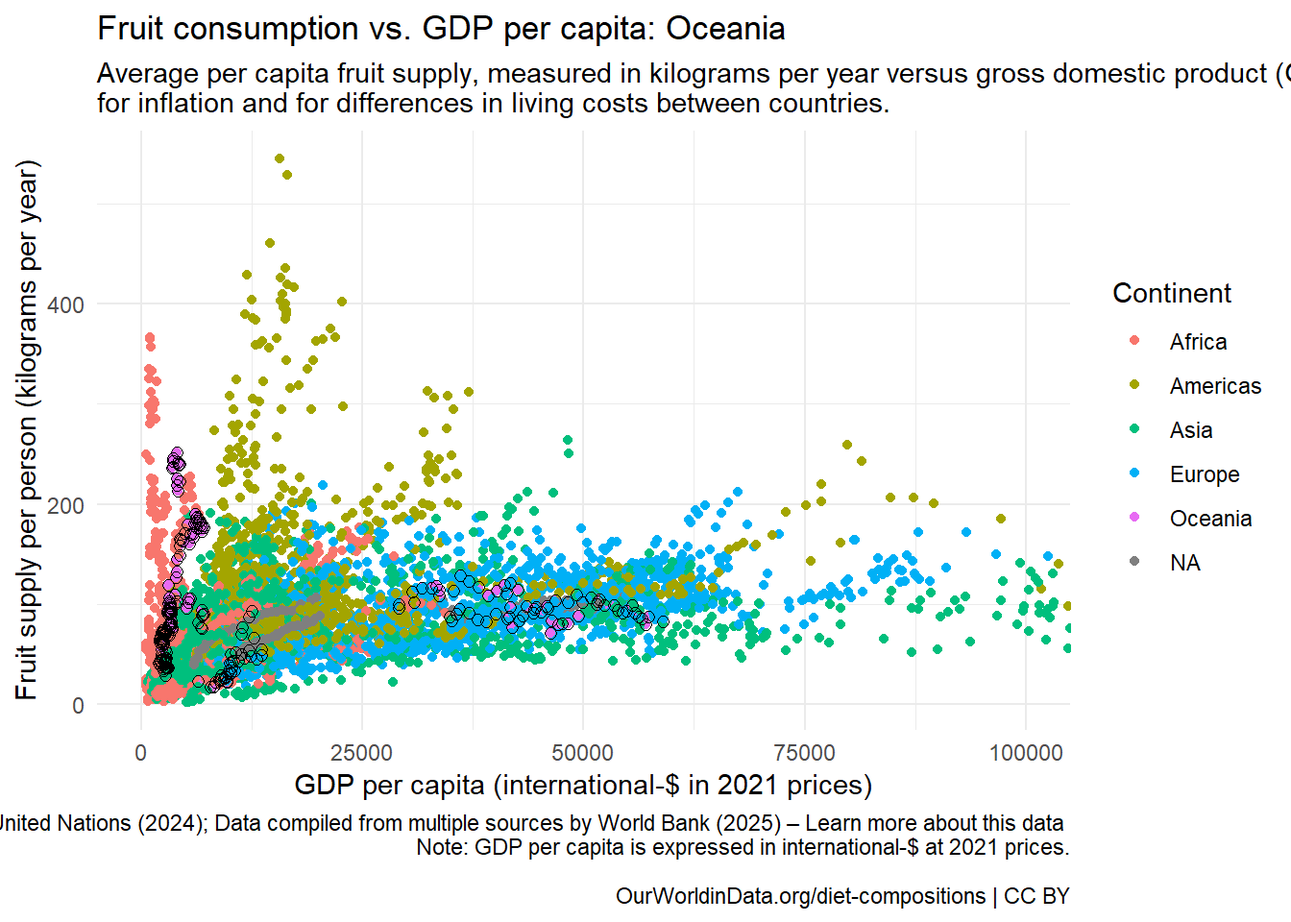
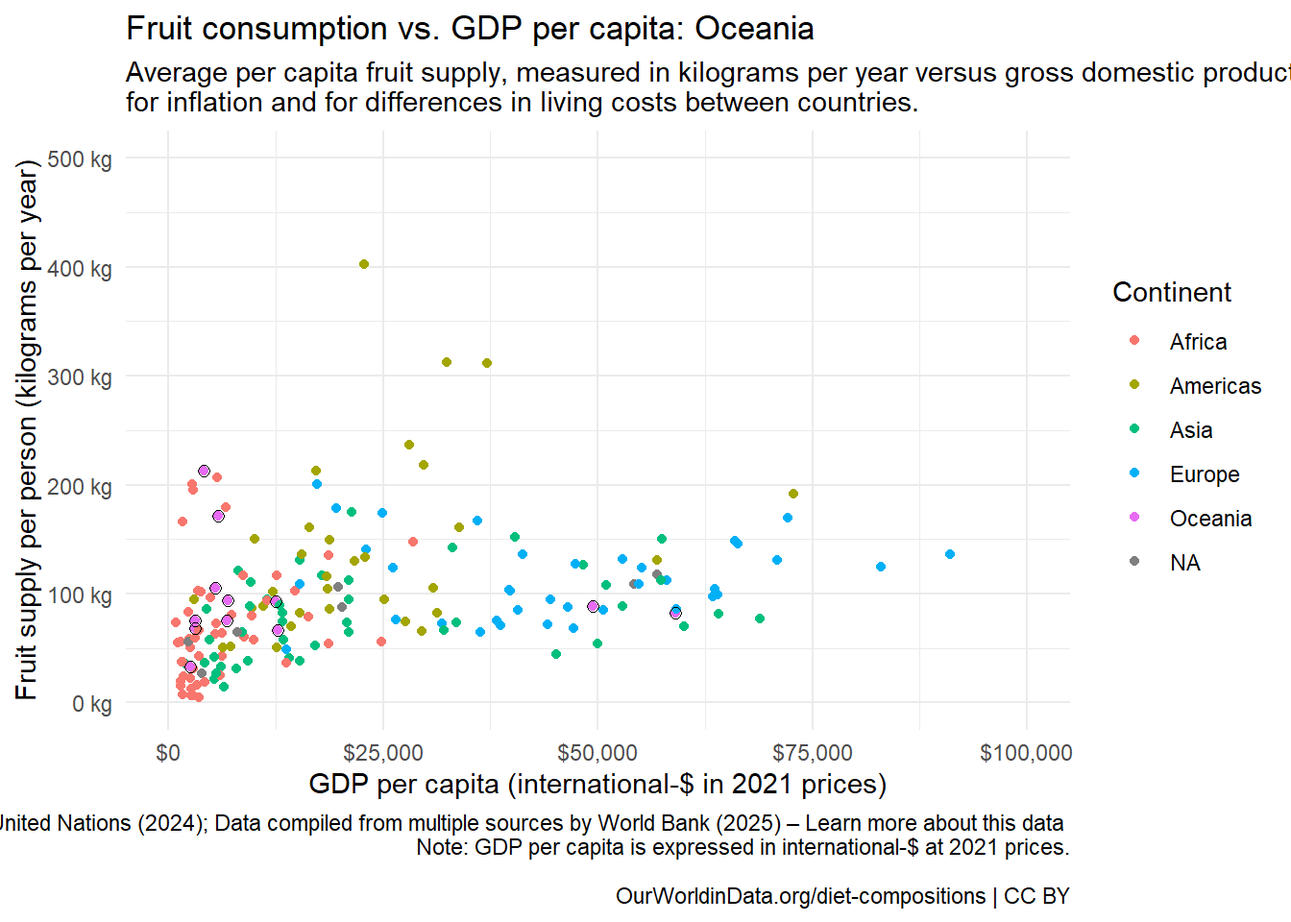
Fixed x and y axis

diff --git a/week_05/Recreate Fruit Visualization.html b/week_05/Recreate Fruit Visualization.html
@@ -137,23 +137,25 @@ pre > code.sourceCode > span > a:first-child::before { text-decoration: underlin
 </div>
 <details class="code-fold">
 <summary>Code</summary>
-<div class="sourceCode cell-code" id="cb9"><pre class="sourceCode numberSource r number-lines code-with-copy"><code class="sourceCode r"><span id="cb9-1"><a href="#cb9-1"></a><span class="fu">library</span>(av)</span></code><button title="Copy to Clipboard" class="code-copy-button"><i class="bi"></i></button></pre></div>
+<div class="sourceCode cell-code" id="cb9"><pre class="sourceCode numberSource r number-lines code-with-copy"><code class="sourceCode r"><span id="cb9-1"><a href="#cb9-1"></a><span class="fu">library</span>(scales)</span></code><button title="Copy to Clipboard" class="code-copy-button"><i class="bi"></i></button></pre></div>
 </details>
 <div class="cell-output cell-output-stderr">
-<pre><code>Warning: package 'av' was built under R version 4.4.3</code></pre>
-</div>
-<details class="code-fold">
-<summary>Code</summary>
-<div class="sourceCode cell-code" id="cb11"><pre class="sourceCode numberSource r number-lines code-with-copy"><code class="sourceCode r"><span id="cb11-1"><a href="#cb11-1"></a><span class="fu">library</span>(gifski)</span></code><button title="Copy to Clipboard" class="code-copy-button"><i class="bi"></i></button></pre></div>
-</details>
-<div class="cell-output cell-output-stderr">
-<pre><code>Warning: package 'gifski' was built under R version 4.4.3</code></pre>
+<pre><code>
+Attaching package: 'scales'
+
+The following object is masked from 'package:purrr':
+
+    discard
+
+The following object is masked from 'package:readr':
+
+    col_factor</code></pre>
 </div>
 </div>
 <div class="cell">
 <details class="code-fold">
 <summary>Code</summary>
-<div class="sourceCode cell-code" id="cb13"><pre class="sourceCode numberSource r number-lines code-with-copy"><code class="sourceCode r"><span id="cb13-1"><a href="#cb13-1"></a>df_fruit <span class="ot">&lt;-</span> <span class="fu">read_csv</span>(<span class="st">"https://ourworldindata.org/grapher/fruit-consumption-vs-gdp-per-capita.csv?v=1&amp;csvType=full&amp;useColumnShortNames=true"</span>)</span></code><button title="Copy to Clipboard" class="code-copy-button"><i class="bi"></i></button></pre></div>
+<div class="sourceCode cell-code" id="cb11"><pre class="sourceCode numberSource r number-lines code-with-copy"><code class="sourceCode r"><span id="cb11-1"><a href="#cb11-1"></a>df_fruit <span class="ot">&lt;-</span> <span class="fu">read_csv</span>(<span class="st">"https://ourworldindata.org/grapher/fruit-consumption-vs-gdp-per-capita.csv?v=1&amp;csvType=full&amp;useColumnShortNames=true"</span>)</span></code><button title="Copy to Clipboard" class="code-copy-button"><i class="bi"></i></button></pre></div>
 </details>
 <div class="cell-output cell-output-stderr">
 <pre><code>Rows: 14355 Columns: 6
@@ -169,11 +171,12 @@ dbl (3): Year, fruit__00002919__food_available_for_consumption__0645pc__kilo...
 <div class="cell">
 <details class="code-fold">
 <summary>Code</summary>
-<div class="sourceCode cell-code" id="cb15"><pre class="sourceCode numberSource r number-lines code-with-copy"><code class="sourceCode r"><span id="cb15-1"><a href="#cb15-1"></a>fruit <span class="ot">&lt;-</span> df_fruit <span class="sc">%&gt;%</span></span>
-<span id="cb15-2"><a href="#cb15-2"></a>  <span class="fu">mutate</span>(<span class="at">Continent =</span> <span class="fu">countrycode</span>(Entity, <span class="at">origin =</span> <span class="st">"country.name"</span>, <span class="at">destination =</span> <span class="st">"continent"</span>)) <span class="sc">%&gt;%</span> </span>
-<span id="cb15-3"><a href="#cb15-3"></a>  <span class="fu">filter</span>(<span class="sc">!</span><span class="fu">is.na</span>(ny_gdp_pcap_pp_kd)) <span class="sc">%&gt;%</span></span>
-<span id="cb15-4"><a href="#cb15-4"></a>  <span class="fu">rename</span>(<span class="st">"fruit_supply"</span> <span class="ot">=</span> fruit__00002919__food_available_for_consumption__0645pc__kilograms_per_year_per_capita) <span class="sc">%&gt;%</span></span>
-<span id="cb15-5"><a href="#cb15-5"></a>  <span class="fu">filter</span>(<span class="sc">!</span><span class="fu">is.na</span>(fruit_supply))</span></code><button title="Copy to Clipboard" class="code-copy-button"><i class="bi"></i></button></pre></div>
+<div class="sourceCode cell-code" id="cb13"><pre class="sourceCode numberSource r number-lines code-with-copy"><code class="sourceCode r"><span id="cb13-1"><a href="#cb13-1"></a>fruit <span class="ot">&lt;-</span> df_fruit <span class="sc">%&gt;%</span></span>
+<span id="cb13-2"><a href="#cb13-2"></a>  <span class="fu">mutate</span>(<span class="at">Continent =</span> <span class="fu">countrycode</span>(Entity, <span class="at">origin =</span> <span class="st">"country.name"</span>, <span class="at">destination =</span> <span class="st">"continent"</span>)) <span class="sc">%&gt;%</span> </span>
+<span id="cb13-3"><a href="#cb13-3"></a>  <span class="fu">filter</span>(<span class="sc">!</span><span class="fu">is.na</span>(ny_gdp_pcap_pp_kd)) <span class="sc">%&gt;%</span></span>
+<span id="cb13-4"><a href="#cb13-4"></a>  <span class="fu">rename</span>(<span class="at">fruit_supply =</span> <span class="st">`</span><span class="at">fruit__00002919__food_available_for_consumption__0645pc__kilograms_per_year_per_capita</span><span class="st">`</span>) <span class="sc">%&gt;%</span></span>
+<span id="cb13-5"><a href="#cb13-5"></a>  <span class="fu">filter</span>(<span class="sc">!</span><span class="fu">is.na</span>(fruit_supply)) <span class="sc">%&gt;%</span> </span>
+<span id="cb13-6"><a href="#cb13-6"></a>  <span class="fu">filter</span>(Year <span class="sc">==</span> <span class="dv">2022</span>)</span></code><button title="Copy to Clipboard" class="code-copy-button"><i class="bi"></i></button></pre></div>
 </details>
 <div class="cell-output cell-output-stderr">
 <pre><code>Warning: There was 1 warning in `mutate()`.
@@ -188,47 +191,59 @@ Caused by warning:
 <div class="cell">
 <details class="code-fold">
 <summary>Code</summary>
-<div class="sourceCode cell-code" id="cb17"><pre class="sourceCode numberSource r number-lines code-with-copy"><code class="sourceCode r"><span id="cb17-1"><a href="#cb17-1"></a><span class="fu">ggplot</span>(fruit, <span class="fu">aes</span>(<span class="at">x =</span> ny_gdp_pcap_pp_kd, <span class="at">y =</span> fruit_supply, <span class="at">color =</span> Continent)) <span class="sc">+</span></span>
-<span id="cb17-2"><a href="#cb17-2"></a>  <span class="fu">geom_point</span>(<span class="at">pch =</span> <span class="dv">20</span>) <span class="sc">+</span></span>
-<span id="cb17-3"><a href="#cb17-3"></a>  <span class="fu">transition_states</span>(Year) <span class="sc">+</span></span>
-<span id="cb17-4"><a href="#cb17-4"></a>  <span class="fu">labs</span>(<span class="at">title =</span> <span class="st">"Fruit consumption vs. GDP per capita"</span>,</span>
-<span id="cb17-5"><a href="#cb17-5"></a>       <span class="at">subtitle =</span> <span class="st">"Average per capita fruit supply, measured in kilograms per year versus gross domestic product (GDP) per capita, adjusted </span><span class="sc">\n</span><span class="st">for inflation and for differences in living costs between countries."</span>,</span>
-<span id="cb17-6"><a href="#cb17-6"></a>       <span class="at">x =</span> <span class="st">"GDP per capita (international-$ in 2021 prices)"</span>, </span>
-<span id="cb17-7"><a href="#cb17-7"></a>       <span class="at">y =</span> <span class="st">"Fruit supply per person (kilograms per year)"</span>,</span>
-<span id="cb17-8"><a href="#cb17-8"></a>       <span class="at">caption =</span> <span class="st">"Data source: Food and Agriculture Organization of the United Nations (2024); Data compiled from multiple sources by World Bank (2025) – Learn more about this data </span><span class="sc">\n</span><span class="st">Note: GDP per capita is expressed in international-$ at 2021 prices.</span></span>
-<span id="cb17-9"><a href="#cb17-9"></a><span class="sc">\n</span><span class="st">OurWorldinData.org/diet-compositions | CC BY"</span>) <span class="sc">+</span></span>
-<span id="cb17-10"><a href="#cb17-10"></a>  <span class="fu">coord_cartesian</span>(<span class="at">xlim =</span> <span class="fu">c</span>(<span class="dv">0</span>, <span class="dv">100000</span>)) <span class="sc">+</span></span>
-<span id="cb17-11"><a href="#cb17-11"></a>  <span class="fu">theme_minimal</span>()</span></code><button title="Copy to Clipboard" class="code-copy-button"><i class="bi"></i></button></pre></div>
+<div class="sourceCode cell-code" id="cb15"><pre class="sourceCode numberSource r number-lines code-with-copy"><code class="sourceCode r"><span id="cb15-1"><a href="#cb15-1"></a><span class="fu">ggplot</span>(fruit, <span class="fu">aes</span>(<span class="at">x =</span> ny_gdp_pcap_pp_kd, <span class="at">y =</span> fruit_supply, <span class="at">color =</span> Continent)) <span class="sc">+</span></span>
+<span id="cb15-2"><a href="#cb15-2"></a>  <span class="fu">geom_point</span>(<span class="at">pch =</span> <span class="dv">20</span>) <span class="sc">+</span></span>
+<span id="cb15-3"><a href="#cb15-3"></a>  <span class="fu">scale_y_continuous</span>(<span class="at">breaks =</span> <span class="fu">seq</span>(<span class="dv">0</span>, <span class="dv">500</span>, <span class="dv">100</span>),</span>
+<span id="cb15-4"><a href="#cb15-4"></a>                     <span class="at">limits =</span> <span class="fu">c</span>(<span class="dv">0</span>, <span class="dv">500</span>),</span>
+<span id="cb15-5"><a href="#cb15-5"></a>                     <span class="at">labels =</span> <span class="fu">label_number</span>(<span class="at">suffix =</span> <span class="st">" kg"</span>)) <span class="sc">+</span></span>
+<span id="cb15-6"><a href="#cb15-6"></a>  <span class="fu">scale_x_continuous</span>(<span class="at">labels =</span> <span class="fu">dollar_format</span>(<span class="at">prefix =</span> <span class="st">"$"</span>, <span class="at">big.mark =</span> <span class="st">","</span>)) <span class="sc">+</span></span>
+<span id="cb15-7"><a href="#cb15-7"></a>  <span class="fu">labs</span>(<span class="at">title =</span> <span class="st">"Fruit consumption vs. GDP per capita"</span>,</span>
+<span id="cb15-8"><a href="#cb15-8"></a>       <span class="at">subtitle =</span> <span class="st">"Average per capita fruit supply, measured in kilograms per year versus gross domestic product (GDP) per capita, adjusted </span><span class="sc">\n</span><span class="st">for inflation and for differences in living costs between countries."</span>,</span>
+<span id="cb15-9"><a href="#cb15-9"></a>       <span class="at">x =</span> <span class="st">"GDP per capita (international-$ in 2021 prices)"</span>, </span>
+<span id="cb15-10"><a href="#cb15-10"></a>       <span class="at">y =</span> <span class="st">"Fruit supply per person (kilograms per year)"</span>,</span>
+<span id="cb15-11"><a href="#cb15-11"></a>       <span class="at">caption =</span> <span class="st">"Data source: Food and Agriculture Organization of the United Nations (2024); Data compiled from multiple sources by World Bank (2025) – Learn more about this data </span><span class="sc">\n</span><span class="st">Note: GDP per capita is expressed in international-$ at 2021 prices.</span></span>
+<span id="cb15-12"><a href="#cb15-12"></a><span class="sc">\n</span><span class="st">OurWorldinData.org/diet-compositions | CC BY"</span>) <span class="sc">+</span></span>
+<span id="cb15-13"><a href="#cb15-13"></a>  <span class="fu">coord_cartesian</span>(<span class="at">xlim =</span> <span class="fu">c</span>(<span class="dv">0</span>, <span class="dv">100000</span>)) <span class="sc">+</span></span>
+<span id="cb15-14"><a href="#cb15-14"></a>  <span class="fu">theme_minimal</span>()</span></code><button title="Copy to Clipboard" class="code-copy-button"><i class="bi"></i></button></pre></div>
 </details>
+<div class="cell-output cell-output-stderr">
+<pre><code>Warning: Removed 1 row containing missing values or values outside the scale range
+(`geom_point()`).</code></pre>
+</div>
 <div class="cell-output-display">
 <div>
 <figure class="figure">
-<p><img src="Recreate-Fruit-Visualization_files/figure-html/unnamed-chunk-4-1.gif" class="img-fluid figure-img"></p>
+<p><img src="Recreate-Fruit-Visualization_files/figure-html/unnamed-chunk-4-1.png" class="img-fluid figure-img" width="672"></p>
 </figure>
 </div>
 </div>
 </div>
-</section>
-<section id="kenya-ghana-and-the-united-states" class="level2">
-<h2 class="anchored" data-anchor-id="kenya-ghana-and-the-united-states">Kenya, Ghana, and the United States</h2>
 <div class="cell">
 <details class="code-fold">
 <summary>Code</summary>
-<div class="sourceCode cell-code" id="cb18"><pre class="sourceCode numberSource r number-lines code-with-copy"><code class="sourceCode r"><span id="cb18-1"><a href="#cb18-1"></a>specific <span class="ot">&lt;-</span> fruit <span class="sc">%&gt;%</span> </span>
-<span id="cb18-2"><a href="#cb18-2"></a>  <span class="fu">filter</span>(Entity <span class="sc">%in%</span> <span class="fu">c</span>(<span class="st">"Kenya"</span>, <span class="st">"Ghana"</span>, <span class="st">"United States"</span>))</span>
-<span id="cb18-3"><a href="#cb18-3"></a></span>
-<span id="cb18-4"><a href="#cb18-4"></a><span class="fu">ggplot</span>(fruit, <span class="fu">aes</span>(<span class="at">x =</span> ny_gdp_pcap_pp_kd, <span class="at">y =</span> fruit_supply, <span class="at">color =</span> Continent)) <span class="sc">+</span></span>
-<span id="cb18-5"><a href="#cb18-5"></a>  <span class="fu">geom_point</span>() <span class="sc">+</span></span>
-<span id="cb18-6"><a href="#cb18-6"></a>  <span class="fu">geom_point</span>(<span class="at">data =</span> specific, <span class="fu">aes</span>(<span class="at">x =</span> ny_gdp_pcap_pp_kd, <span class="at">y =</span> fruit_supply), <span class="at">pch =</span> <span class="dv">21</span>, <span class="at">size =</span> <span class="dv">2</span>, <span class="at">color =</span> <span class="st">"black"</span>) <span class="sc">+</span></span>
-<span id="cb18-7"><a href="#cb18-7"></a>  <span class="fu">labs</span>(<span class="at">title =</span> <span class="st">"Fruit consumption vs. GDP per capita: Kenya, Ghana, United States"</span>,</span>
-<span id="cb18-8"><a href="#cb18-8"></a>       <span class="at">subtitle =</span> <span class="st">"Average per capita fruit supply, measured in kilograms per year versus gross domestic product (GDP) per capita, adjusted </span><span class="sc">\n</span><span class="st">for inflation and for differences in living costs between countries."</span>,</span>
-<span id="cb18-9"><a href="#cb18-9"></a>       <span class="at">x =</span> <span class="st">"GDP per capita (international-$ in 2021 prices)"</span>, </span>
-<span id="cb18-10"><a href="#cb18-10"></a>       <span class="at">y =</span> <span class="st">"Fruit supply per person (kilograms per year)"</span>,</span>
-<span id="cb18-11"><a href="#cb18-11"></a>       <span class="at">caption =</span> <span class="st">"Data source: Food and Agriculture Organization of the United Nations (2024); Data compiled from multiple sources by World Bank (2025) – Learn more about this data </span><span class="sc">\n</span><span class="st">Note: GDP per capita is expressed in international-$ at 2021 prices.</span></span>
-<span id="cb18-12"><a href="#cb18-12"></a><span class="sc">\n</span><span class="st">OurWorldinData.org/diet-compositions | CC BY"</span>) <span class="sc">+</span></span>
-<span id="cb18-13"><a href="#cb18-13"></a>  <span class="fu">coord_cartesian</span>(<span class="at">xlim =</span> <span class="fu">c</span>(<span class="dv">0</span>, <span class="dv">100000</span>)) <span class="sc">+</span></span>
-<span id="cb18-14"><a href="#cb18-14"></a>  <span class="fu">theme_minimal</span>()</span></code><button title="Copy to Clipboard" class="code-copy-button"><i class="bi"></i></button></pre></div>
+<div class="sourceCode cell-code" id="cb17"><pre class="sourceCode numberSource r number-lines code-with-copy"><code class="sourceCode r"><span id="cb17-1"><a href="#cb17-1"></a>specific <span class="ot">&lt;-</span> fruit <span class="sc">%&gt;%</span> </span>
+<span id="cb17-2"><a href="#cb17-2"></a>  <span class="fu">filter</span>(Entity <span class="sc">%in%</span> <span class="fu">c</span>(<span class="st">"Kenya"</span>, <span class="st">"Ghana"</span>, <span class="st">"United States"</span>))</span>
+<span id="cb17-3"><a href="#cb17-3"></a></span>
+<span id="cb17-4"><a href="#cb17-4"></a><span class="fu">ggplot</span>(fruit, <span class="fu">aes</span>(<span class="at">x =</span> ny_gdp_pcap_pp_kd, <span class="at">y =</span> fruit_supply, <span class="at">color =</span> Continent)) <span class="sc">+</span></span>
+<span id="cb17-5"><a href="#cb17-5"></a>  <span class="fu">geom_point</span>() <span class="sc">+</span></span>
+<span id="cb17-6"><a href="#cb17-6"></a>  <span class="fu">geom_point</span>(<span class="at">data =</span> specific, <span class="fu">aes</span>(<span class="at">x =</span> ny_gdp_pcap_pp_kd, <span class="at">y =</span> fruit_supply), <span class="at">pch =</span> <span class="dv">21</span>, <span class="at">size =</span> <span class="dv">2</span>, <span class="at">color =</span> <span class="st">"black"</span>) <span class="sc">+</span></span>
+<span id="cb17-7"><a href="#cb17-7"></a>  <span class="fu">scale_y_continuous</span>(<span class="at">breaks =</span> <span class="fu">seq</span>(<span class="dv">0</span>, <span class="dv">500</span>, <span class="dv">100</span>),</span>
+<span id="cb17-8"><a href="#cb17-8"></a>                     <span class="at">limits =</span> <span class="fu">c</span>(<span class="dv">0</span>, <span class="dv">500</span>),</span>
+<span id="cb17-9"><a href="#cb17-9"></a>                     <span class="at">labels =</span> <span class="fu">label_number</span>(<span class="at">suffix =</span> <span class="st">" kg"</span>)) <span class="sc">+</span></span>
+<span id="cb17-10"><a href="#cb17-10"></a>  <span class="fu">scale_x_continuous</span>(<span class="at">labels =</span> <span class="fu">dollar_format</span>(<span class="at">prefix =</span> <span class="st">"$"</span>, <span class="at">big.mark =</span> <span class="st">","</span>)) <span class="sc">+</span></span>
+<span id="cb17-11"><a href="#cb17-11"></a>  <span class="fu">labs</span>(<span class="at">title =</span> <span class="st">"Fruit consumption vs. GDP per capita: Kenya, Ghana, United States"</span>,</span>
+<span id="cb17-12"><a href="#cb17-12"></a>       <span class="at">subtitle =</span> <span class="st">"Average per capita fruit supply, measured in kilograms per year versus gross domestic product (GDP) per capita, adjusted </span><span class="sc">\n</span><span class="st">for inflation and for differences in living costs between countries."</span>,</span>
+<span id="cb17-13"><a href="#cb17-13"></a>       <span class="at">x =</span> <span class="st">"GDP per capita (international-$ in 2021 prices)"</span>, </span>
+<span id="cb17-14"><a href="#cb17-14"></a>       <span class="at">y =</span> <span class="st">"Fruit supply per person (kilograms per year)"</span>,</span>
+<span id="cb17-15"><a href="#cb17-15"></a>       <span class="at">caption =</span> <span class="st">"Data source: Food and Agriculture Organization of the United Nations (2024); Data compiled from multiple sources by World Bank (2025) – Learn more about this data </span><span class="sc">\n</span><span class="st">Note: GDP per capita is expressed in international-$ at 2021 prices.</span></span>
+<span id="cb17-16"><a href="#cb17-16"></a><span class="sc">\n</span><span class="st">OurWorldinData.org/diet-compositions | CC BY"</span>) <span class="sc">+</span></span>
+<span id="cb17-17"><a href="#cb17-17"></a>  <span class="fu">coord_cartesian</span>(<span class="at">xlim =</span> <span class="fu">c</span>(<span class="dv">0</span>, <span class="dv">100000</span>)) <span class="sc">+</span></span>
+<span id="cb17-18"><a href="#cb17-18"></a>  <span class="fu">theme_minimal</span>()</span></code><button title="Copy to Clipboard" class="code-copy-button"><i class="bi"></i></button></pre></div>
 </details>
+<div class="cell-output cell-output-stderr">
+<pre><code>Warning: Removed 1 row containing missing values or values outside the scale range
+(`geom_point()`).</code></pre>
+</div>
 <div class="cell-output-display">
 <div>
 <figure class="figure">
@@ -249,15 +264,23 @@ Caused by warning:
 <span id="cb19-4"><a href="#cb19-4"></a><span class="fu">ggplot</span>(fruit, <span class="fu">aes</span>(<span class="at">x =</span> ny_gdp_pcap_pp_kd, <span class="at">y =</span> fruit_supply, <span class="at">color =</span> Continent)) <span class="sc">+</span></span>
 <span id="cb19-5"><a href="#cb19-5"></a>  <span class="fu">geom_point</span>() <span class="sc">+</span></span>
 <span id="cb19-6"><a href="#cb19-6"></a>  <span class="fu">geom_point</span>(<span class="at">data =</span> specific2, <span class="fu">aes</span>(<span class="at">x =</span> ny_gdp_pcap_pp_kd, <span class="at">y =</span> fruit_supply), <span class="at">pch =</span> <span class="dv">21</span>, <span class="at">size =</span> <span class="dv">2</span>, <span class="at">color =</span> <span class="st">"black"</span>) <span class="sc">+</span></span>
-<span id="cb19-7"><a href="#cb19-7"></a>  <span class="fu">labs</span>(<span class="at">title =</span> <span class="st">"Fruit consumption vs. GDP per capita: Oceania"</span>,</span>
-<span id="cb19-8"><a href="#cb19-8"></a>       <span class="at">subtitle =</span> <span class="st">"Average per capita fruit supply, measured in kilograms per year versus gross domestic product (GDP) per capita, adjusted </span><span class="sc">\n</span><span class="st">for inflation and for differences in living costs between countries."</span>,</span>
-<span id="cb19-9"><a href="#cb19-9"></a>       <span class="at">x =</span> <span class="st">"GDP per capita (international-$ in 2021 prices)"</span>, </span>
-<span id="cb19-10"><a href="#cb19-10"></a>       <span class="at">y =</span> <span class="st">"Fruit supply per person (kilograms per year)"</span>,</span>
-<span id="cb19-11"><a href="#cb19-11"></a>       <span class="at">caption =</span> <span class="st">"Data source: Food and Agriculture Organization of the United Nations (2024); Data compiled from multiple sources by World Bank (2025) – Learn more about this data </span><span class="sc">\n</span><span class="st">Note: GDP per capita is expressed in international-$ at 2021 prices.</span></span>
-<span id="cb19-12"><a href="#cb19-12"></a><span class="sc">\n</span><span class="st">OurWorldinData.org/diet-compositions | CC BY"</span>) <span class="sc">+</span></span>
-<span id="cb19-13"><a href="#cb19-13"></a>  <span class="fu">coord_cartesian</span>(<span class="at">xlim =</span> <span class="fu">c</span>(<span class="dv">0</span>, <span class="dv">100000</span>)) <span class="sc">+</span></span>
-<span id="cb19-14"><a href="#cb19-14"></a>  <span class="fu">theme_minimal</span>()</span></code><button title="Copy to Clipboard" class="code-copy-button"><i class="bi"></i></button></pre></div>
+<span id="cb19-7"><a href="#cb19-7"></a>  <span class="fu">scale_y_continuous</span>(<span class="at">breaks =</span> <span class="fu">seq</span>(<span class="dv">0</span>, <span class="dv">500</span>, <span class="dv">100</span>),</span>
+<span id="cb19-8"><a href="#cb19-8"></a>                     <span class="at">limits =</span> <span class="fu">c</span>(<span class="dv">0</span>, <span class="dv">500</span>),</span>
+<span id="cb19-9"><a href="#cb19-9"></a>                     <span class="at">labels =</span> <span class="fu">label_number</span>(<span class="at">suffix =</span> <span class="st">" kg"</span>)) <span class="sc">+</span></span>
+<span id="cb19-10"><a href="#cb19-10"></a>  <span class="fu">scale_x_continuous</span>(<span class="at">labels =</span> <span class="fu">dollar_format</span>(<span class="at">prefix =</span> <span class="st">"$"</span>, <span class="at">big.mark =</span> <span class="st">","</span>)) <span class="sc">+</span></span>
+<span id="cb19-11"><a href="#cb19-11"></a>  <span class="fu">labs</span>(<span class="at">title =</span> <span class="st">"Fruit consumption vs. GDP per capita: Oceania"</span>,</span>
+<span id="cb19-12"><a href="#cb19-12"></a>       <span class="at">subtitle =</span> <span class="st">"Average per capita fruit supply, measured in kilograms per year versus gross domestic product (GDP) per capita, adjusted </span><span class="sc">\n</span><span class="st">for inflation and for differences in living costs between countries."</span>,</span>
+<span id="cb19-13"><a href="#cb19-13"></a>       <span class="at">x =</span> <span class="st">"GDP per capita (international-$ in 2021 prices)"</span>, </span>
+<span id="cb19-14"><a href="#cb19-14"></a>       <span class="at">y =</span> <span class="st">"Fruit supply per person (kilograms per year)"</span>,</span>
+<span id="cb19-15"><a href="#cb19-15"></a>       <span class="at">caption =</span> <span class="st">"Data source: Food and Agriculture Organization of the United Nations (2024); Data compiled from multiple sources by World Bank (2025) – Learn more about this data </span><span class="sc">\n</span><span class="st">Note: GDP per capita is expressed in international-$ at 2021 prices.</span></span>
+<span id="cb19-16"><a href="#cb19-16"></a><span class="sc">\n</span><span class="st">OurWorldinData.org/diet-compositions | CC BY"</span>) <span class="sc">+</span></span>
+<span id="cb19-17"><a href="#cb19-17"></a>  <span class="fu">coord_cartesian</span>(<span class="at">xlim =</span> <span class="fu">c</span>(<span class="dv">0</span>, <span class="dv">100000</span>)) <span class="sc">+</span></span>
+<span id="cb19-18"><a href="#cb19-18"></a>  <span class="fu">theme_minimal</span>()</span></code><button title="Copy to Clipboard" class="code-copy-button"><i class="bi"></i></button></pre></div>
 </details>
+<div class="cell-output cell-output-stderr">
+<pre><code>Warning: Removed 1 row containing missing values or values outside the scale range
+(`geom_point()`).</code></pre>
+</div>
 <div class="cell-output-display">
 <div>
 <figure class="figure">
@@ -266,7 +289,7 @@ Caused by warning:
 </div>
 </div>
 </div>
-<p>This was a challenging assignment, and I still feel that I could’ve done better with more time. I discovered that the chart looks very different when using a linear vs.&nbsp;logarithmic scale, because the website default is logarithmic but the linear model matches mine much closer. I also realized I am not confident in using axis, plot, and legend aspects to polish a graph. However, I did learn how to create a moving graph that tells the story over time, although it did not match the visual perfectly, and this was exciting and helped the graph tell a better story. Emphasizing different aspects of data also draws the eyes and highlights patterns and gives more meaning to the data. I used layering to highlight certain points, as well as ssize adjustments and color contrast.</p>
+<p>This was a challenging assignment, and I still feel that I could’ve done better with more time. I discovered that the chart looks very different when using a linear vs.&nbsp;logarithmic scale, because the website default is logarithmic but the linear model matches mine much closer. I also realized I am not confident in using axis, plot, and legend aspects to polish a graph. However, I did learn how to create a moving graph that tells the story over time, which I ended up deciding to remove, and this was an interesting tool to try out. Emphasizing different aspects of data also draws the eyes and highlights patterns and gives more meaning to the data. I used layering to highlight certain points, as well as size adjustments and color contrast.</p>
 </section>
 
 </main>

diff --git a/week_05/Recreate Fruit Visualization.html.md b/week_05/Recreate Fruit Visualization.html.md
@@ -76,26 +76,22 @@ Warning: package 'gganimate' was built under R version 4.4.3
 :::
 
 ```{.r .cell-code}
-library(av)
+library(scales)
 ```
 
 ::: {.cell-output .cell-output-stderr}
 
 ```
-Warning: package 'av' was built under R version 4.4.3
-```
 
+Attaching package: 'scales'
 
-:::
+The following object is masked from 'package:purrr':
 
-```{.r .cell-code}
-library(gifski)
-```
+    discard
 
-::: {.cell-output .cell-output-stderr}
+The following object is masked from 'package:readr':
 
-```
-Warning: package 'gifski' was built under R version 4.4.3
+    col_factor
 ```
 
 
@@ -131,8 +127,9 @@ dbl (3): Year, fruit__00002919__food_available_for_consumption__0645pc__kilo...
 fruit <- df_fruit %>%
   mutate(Continent = countrycode(Entity, origin = "country.name", destination = "continent")) %>% 
   filter(!is.na(ny_gdp_pcap_pp_kd)) %>%
-  rename("fruit_supply" = fruit__00002919__food_available_for_consumption__0645pc__kilograms_per_year_per_capita) %>%
-  filter(!is.na(fruit_supply))
+  rename(fruit_supply = `fruit__00002919__food_available_for_consumption__0645pc__kilograms_per_year_per_capita`) %>%
+  filter(!is.na(fruit_supply)) %>% 
+  filter(Year == 2022)
 ```
 
 ::: {.cell-output .cell-output-stderr}
@@ -158,7 +155,10 @@ Caused by warning:
 ```{.r .cell-code}
 ggplot(fruit, aes(x = ny_gdp_pcap_pp_kd, y = fruit_supply, color = Continent)) +
   geom_point(pch = 20) +
-  transition_states(Year) +
+  scale_y_continuous(breaks = seq(0, 500, 100),
+                     limits = c(0, 500),
+                     labels = label_number(suffix = " kg")) +
+  scale_x_continuous(labels = dollar_format(prefix = "$", big.mark = ",")) +
   labs(title = "Fruit consumption vs. GDP per capita",
        subtitle = "Average per capita fruit supply, measured in kilograms per year versus gross domestic product (GDP) per capita, adjusted \nfor inflation and for differences in living costs between countries.",
        x = "GDP per capita (international-$ in 2021 prices)", 
@@ -169,14 +169,20 @@ ggplot(fruit, aes(x = ny_gdp_pcap_pp_kd, y = fruit_supply, color = Continent)) +
   theme_minimal()
 ```
 
+::: {.cell-output .cell-output-stderr}
+
+```
+Warning: Removed 1 row containing missing values or values outside the scale range
+(`geom_point()`).
+```
+
+
+:::
+
 ::: {.cell-output-display}
-![](Recreate-Fruit-Visualization_files/figure-html/unnamed-chunk-4-1.gif)
+![](Recreate-Fruit-Visualization_files/figure-html/unnamed-chunk-4-1.png){width=672}
 :::
 :::
-
-
-## Kenya, Ghana, and the United States
-
 
 ::: {.cell}
 
@@ -187,6 +193,10 @@ specific <- fruit %>%
 ggplot(fruit, aes(x = ny_gdp_pcap_pp_kd, y = fruit_supply, color = Continent)) +
   geom_point() +
   geom_point(data = specific, aes(x = ny_gdp_pcap_pp_kd, y = fruit_supply), pch = 21, size = 2, color = "black") +
+  scale_y_continuous(breaks = seq(0, 500, 100),
+                     limits = c(0, 500),
+                     labels = label_number(suffix = " kg")) +
+  scale_x_continuous(labels = dollar_format(prefix = "$", big.mark = ",")) +
   labs(title = "Fruit consumption vs. GDP per capita: Kenya, Ghana, United States",
        subtitle = "Average per capita fruit supply, measured in kilograms per year versus gross domestic product (GDP) per capita, adjusted \nfor inflation and for differences in living costs between countries.",
        x = "GDP per capita (international-$ in 2021 prices)", 
@@ -196,6 +206,16 @@ ggplot(fruit, aes(x = ny_gdp_pcap_pp_kd, y = fruit_supply, color = Continent)) +
   coord_cartesian(xlim = c(0, 100000)) +
   theme_minimal()
 ```
+
+::: {.cell-output .cell-output-stderr}
+
+```
+Warning: Removed 1 row containing missing values or values outside the scale range
+(`geom_point()`).
+```
+
+
+:::
 
 ::: {.cell-output-display}
 ![](Recreate-Fruit-Visualization_files/figure-html/unnamed-chunk-5-1.png){width=672}
@@ -215,6 +235,10 @@ specific2 <- fruit %>%
 ggplot(fruit, aes(x = ny_gdp_pcap_pp_kd, y = fruit_supply, color = Continent)) +
   geom_point() +
   geom_point(data = specific2, aes(x = ny_gdp_pcap_pp_kd, y = fruit_supply), pch = 21, size = 2, color = "black") +
+  scale_y_continuous(breaks = seq(0, 500, 100),
+                     limits = c(0, 500),
+                     labels = label_number(suffix = " kg")) +
+  scale_x_continuous(labels = dollar_format(prefix = "$", big.mark = ",")) +
   labs(title = "Fruit consumption vs. GDP per capita: Oceania",
        subtitle = "Average per capita fruit supply, measured in kilograms per year versus gross domestic product (GDP) per capita, adjusted \nfor inflation and for differences in living costs between countries.",
        x = "GDP per capita (international-$ in 2021 prices)", 
@@ -225,10 +249,20 @@ ggplot(fruit, aes(x = ny_gdp_pcap_pp_kd, y = fruit_supply, color = Continent)) +
   theme_minimal()
 ```
 
+::: {.cell-output .cell-output-stderr}
+
+```
+Warning: Removed 1 row containing missing values or values outside the scale range
+(`geom_point()`).
+```
+
+
+:::
+
 ::: {.cell-output-display}
 ![](Recreate-Fruit-Visualization_files/figure-html/unnamed-chunk-6-1.png){width=672}
 :::
 :::
 
 
-This was a challenging assignment, and I still feel that I could've done better with more time. I discovered that the chart looks very different when using a linear vs. logarithmic scale, because the website default is logarithmic but the linear model matches mine much closer. I also realized I am not confident in using axis, plot, and legend aspects to polish a graph. However, I did learn how to create a moving graph that tells the story over time, although it did not match the visual perfectly, and this was exciting and helped the graph tell a better story. Emphasizing different aspects of data also draws the eyes and highlights patterns and gives more meaning to the data. I used layering to highlight certain points, as well as ssize adjustments and color contrast. 
+This was a challenging assignment, and I still feel that I could've done better with more time. I discovered that the chart looks very different when using a linear vs. logarithmic scale, because the website default is logarithmic but the linear model matches mine much closer. I also realized I am not confident in using axis, plot, and legend aspects to polish a graph. However, I did learn how to create a moving graph that tells the story over time, which I ended up deciding to remove, and this was an interesting tool to try out. Emphasizing different aspects of data also draws the eyes and highlights patterns and gives more meaning to the data. I used layering to highlight certain points, as well as size adjustments and color contrast.
